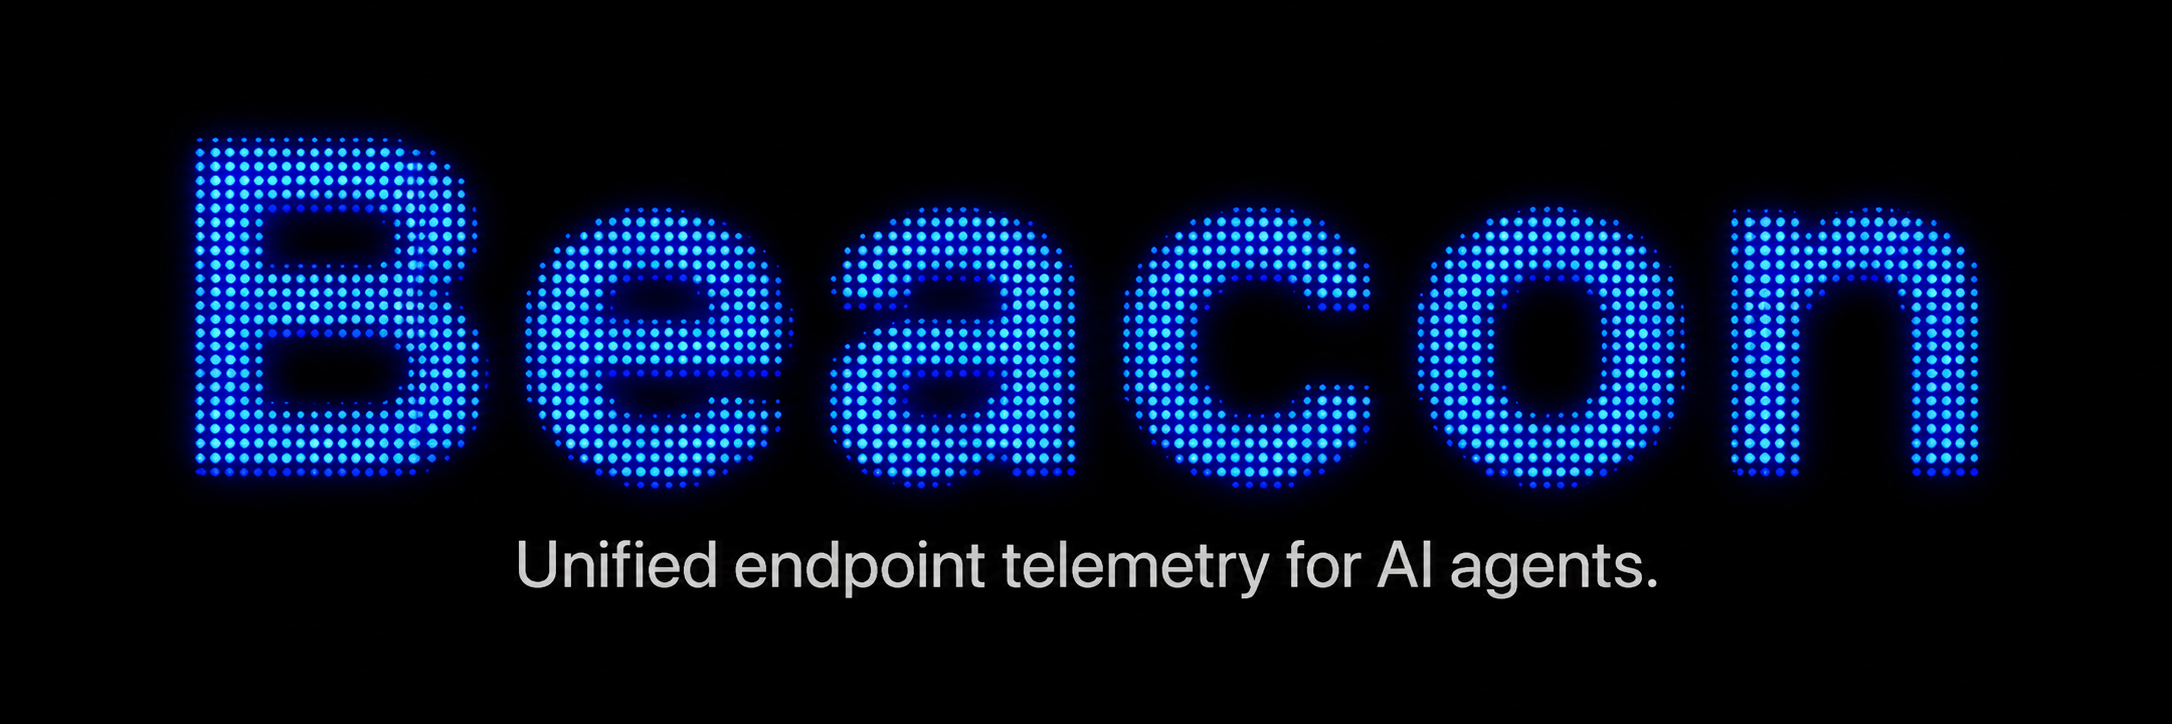
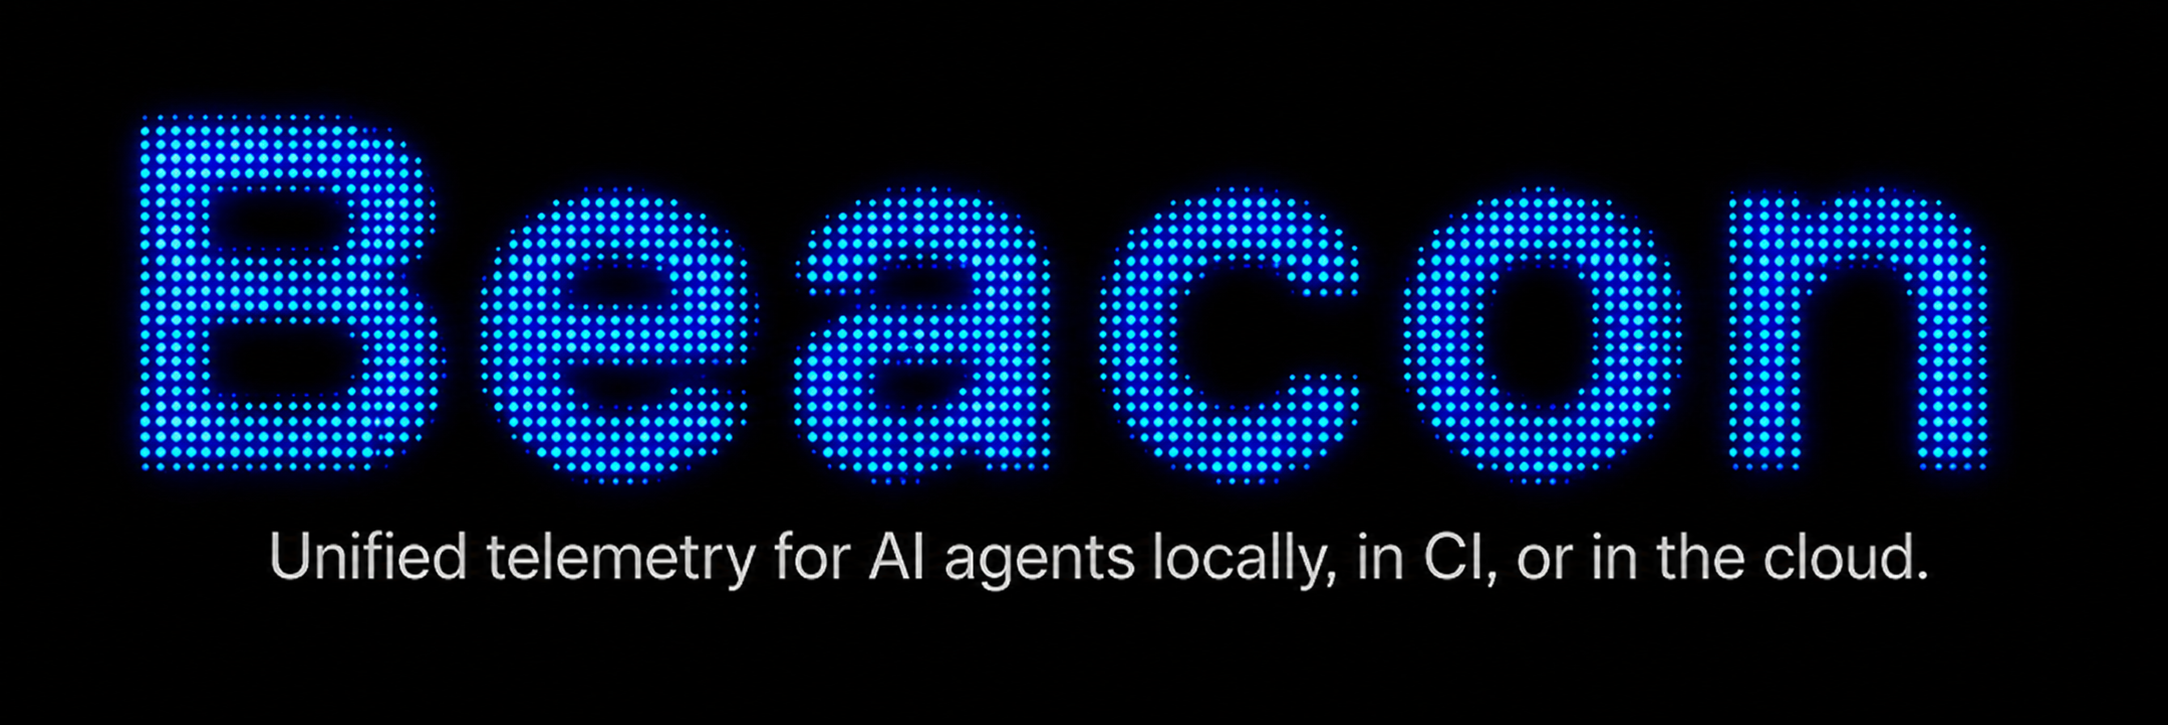
update readme

Changed region(s): [[0.0309, 0.1215, 0.9271, 0.6989], [0.1236, 0.7293, 0.8962, 0.8204]]

diff --git a/README.md b/README.md
@@ -14,7 +14,7 @@
 </p>
 
 <p align="center">
-  <strong>Unified endpoint telemetry for AI agents.</strong>
+  <strong>Unified endpoint telemetry for AI agents, wherever they run.</strong>
 </p>
 
 <p align="center">
@@ -33,16 +33,12 @@
 
 ## What is Agent Beacon
 
-Agent Beacon is [Asymptote's open-source endpoint agent](https://justindsouza.substack.com/p/introducing-beacon-endpoint-telemetry) for security and IT teams that
-need visibility into local AI agent activity.
+Agent Beacon is the world's first [open-source telemetry layer](https://justindsouza.substack.com/p/introducing-beacon-endpoint-telemetry) for AI agents wherever they run: locally, in CI, or in the cloud.
 
-It runs locally, captures all agent activity (e.g. prompts, tool use, file edits, etc.) from
-all the [major local agent harnesses](#agent-runtimes), then
-normalizes that activity into endpoint events your team can inspect and retain
-locally.
+Beacon started with local endpoint telemetry for security and IT teams that need visibility into AI agent activity on employee machines. It now captures supported runtime activity across local agents, CI agents, and cloud agents, then normalizes that activity into events your team can inspect, retain, and forward under your control.
 
 Beacon is built to be easy to deploy for Security and IT teams through
-[MDM deployment](#mdm-deployment) and to
+[MDM deployment](#mdm-deployment), CI workflows, and cloud-agent setup paths, and to
 emit agent harness telemetry logs to
 [all the major enterprise-grade SIEMs](#siem--output-destinations).
 
@@ -50,15 +46,16 @@ Learn more in the [Agent Beacon Documentation](https://docs.asymptotelabs.ai).
 
 ## High-Level Architecture
 
-Beacon keeps collection, processing, and inspection local to the endpoint while
-leaving forwarding under customer control.
+Beacon keeps endpoint collection, processing, and inspection local by default,
+while extending the same normalized event model to CI and cloud-agent telemetry
+paths under customer control.
 
 <p align="center">
   <img src="images/beacon-architecture.png" alt="Beacon endpoint architecture" width="860">
 </p>
 
-- **Agent runtime layer:** Local hooks and OpenTelemetry sources capture
-  supported activity from AI agent harnesses on the endpoint.
+- **Agent runtime layer:** Hooks, OpenTelemetry sources, CI wrappers, and SDKs
+  capture supported activity from AI agent harnesses wherever they run.
 - **Beacon endpoint layer:** Local processing normalizes events, applies
   retention and redaction settings, and writes durable endpoint telemetry.
 - **Output layer:** Teams inspect events in the local dashboard, retain JSONL,
@@ -66,51 +63,58 @@ leaving forwarding under customer control.
 
 ## Supported Surfaces
 
-Beacon captures supported agent harness activity locally and writes normalized
-endpoint events that teams can inspect in place or forward into customer-managed
-security pipelines.
+Beacon captures supported agent harness activity across local endpoints, CI
+jobs, and cloud-agent surfaces, then writes normalized events that teams can
+inspect in place or forward into customer-managed security pipelines.
 
 ### Agent Runtimes
 
-Agent Beacon supports the most popular enterprise coding agent harnesses (e.g.
-Claude Code, Codex, Cursor, etc.) and knowledge worker agent harnesses (e.g.
-Claude Cowork, OpenClaw).
+Agent Beacon supports the most popular enterprise agent harnesses across local,
+CI, and cloud surfaces.
 
-#### Coding Agent Harnesses
+#### Local Agents
 
-| Agent harness | Support path |
-| --- | --- |
-| [Antigravity CLI](https://docs.asymptotelabs.ai/cli/supported-runtimes-antigravity-cli) | Beacon hook adapter |
-| [Claude Code](https://docs.asymptotelabs.ai/cli/supported-runtimes-claude-code) | Local OpenTelemetry configuration, Beacon hook adapter, or Claude Code web cloud hooks with GCS upload |
-| [Codex CLI](https://docs.asymptotelabs.ai/cli/supported-runtimes-codex-cli) | Local OpenTelemetry configuration |
-| [Cursor](https://docs.asymptotelabs.ai/cli/supported-runtimes-cursor) | Beacon hook adapter |
-| [Devin CLI](https://docs.asymptotelabs.ai/cli/supported-runtimes-devin) | Beacon hook adapter |
-| [Devin Desktop](https://docs.asymptotelabs.ai/cli/supported-runtimes-devin-desktop) | Beacon hook adapter via Cascade/Windsurf hooks |
-| [Factory Droid](https://docs.asymptotelabs.ai/cli/supported-runtimes-factory-droid) | Local OpenTelemetry configuration and optional hook adapter |
-| [Gemini CLI](https://docs.asymptotelabs.ai/cli/supported-runtimes-gemini-cli) | Opt-in local OpenTelemetry configuration |
-| [GitHub Copilot CLI](https://docs.asymptotelabs.ai/cli/supported-runtimes-github-copilot-cli) | MDM-managed OpenTelemetry (OTLP HTTP) |
-| [Grok Build](https://docs.asymptotelabs.ai/cli/supported-runtimes-grok-build) | Beacon hook adapter |
-| [OpenCode](https://docs.asymptotelabs.ai/cli/supported-runtimes-opencode) | Beacon hook adapter |
-| [VS Code](https://docs.asymptotelabs.ai/cli/supported-runtimes-vscode) | VS Code Copilot OpenTelemetry and optional Beacon hook adapter |
+##### Coding Agent Harnesses
 
-#### Cloud Agent Harnesses
+| Agent harness | Collection path | Telemetry coverage |
+| --- | --- | --- |
+| [Antigravity CLI](https://docs.asymptotelabs.ai/cli/supported-runtimes-antigravity-cli) | Native hooks | Prompt, pre-tool, post-tool, stop, invocation, command, and file telemetry where Antigravity exposes hook payloads |
+| [Claude Code](https://docs.asymptotelabs.ai/cli/supported-runtimes-claude-code) | Local OTLP export plus optional hooks | Prompt, command, tool, file, lifecycle, subagent, and permission telemetry where emitted through OTLP or hooks |
+| [Codex CLI](https://docs.asymptotelabs.ai/cli/supported-runtimes-codex-cli) | Local OTLP logs | Session, prompt, approval, and tool-result activity from Codex semantic logs |
+| [Cursor](https://docs.asymptotelabs.ai/cli/supported-runtimes-cursor) | Native hooks | Prompt, tool, shell command, MCP-like, approval, and file edit telemetry |
+| [Devin CLI](https://docs.asymptotelabs.ai/cli/supported-runtimes-devin) | Native hooks | Session, prompt, pre-tool, post-tool, permission request, stop, session-end, approval, and file telemetry |
+| [Devin Desktop](https://docs.asymptotelabs.ai/cli/supported-runtimes-devin-desktop) | Cascade/Windsurf hooks | Prompt, command, MCP tool, file read, and file write telemetry where Desktop exposes Cascade hook payloads |
+| [Factory Droid](https://docs.asymptotelabs.ai/cli/supported-runtimes-factory-droid) | OTLP HTTP plus optional hooks | Session, prompt, write/edit/create tool use, stop, session-end, and available OTLP telemetry |
+| [Gemini CLI](https://docs.asymptotelabs.ai/cli/supported-runtimes-gemini-cli) | Opt-in local OTLP | Prompts, tool calls, MCP activity, file operations, and approval-related events emitted through OTLP |
+| [GitHub Copilot CLI](https://docs.asymptotelabs.ai/cli/supported-runtimes-github-copilot-cli) | MDM-managed OTLP HTTP | Prompt, session, tool, and approval-like activity emitted through Copilot CLI spans |
+| [Grok Build](https://docs.asymptotelabs.ai/cli/supported-runtimes-grok-build) | Native hooks | Session, prompt, pre-tool, post-tool, failed tool, stop, session-end, command, and file telemetry |
+| [OpenCode](https://docs.asymptotelabs.ai/cli/supported-runtimes-opencode) | Managed plugin hooks | Chat messages, session events, command execution, permission activity, diffs, and errors |
+| [VS Code](https://docs.asymptotelabs.ai/cli/supported-runtimes-vscode) | Copilot Chat OTel plus optional preview hooks | Copilot session, prompt, model, and tool activity through OTel; optional hooks for extra lifecycle and cross-agent detail |
 
-Beacon can capture Claude Code on the web sessions by installing ephemeral
-project-level hooks inside the cloud sandbox and uploading the per-session
-`runtime.jsonl` snapshot to customer-managed Google Cloud Storage. Use
-`beacon cloud gcs setup` to create a scoped GCS uploader service account and
-print the Claude web environment variables, then use
-`beacon cloud claude-web print-setup --version <tag>` as the Claude environment
-setup script. The setup script writes `.claude/settings.local.json` inside the
-cloud clone only, so generated hook configuration stays out of commits.
+##### Knowledge Worker Agent Harnesses
 
-#### Knowledge Worker Agent Harnesses
+| Agent harness | Collection path | Telemetry coverage |
+| --- | --- | --- |
+| [Claude Cowork](https://docs.asymptotelabs.ai/cli/supported-runtimes-claude-cowork) | Admin-configured OTLP | Prompt, command, tool, and file telemetry when emitted through Claude Cowork OTLP |
+| [Hermes Agent](https://docs.asymptotelabs.ai/cli/supported-runtimes-hermes-agent) | Shell hooks | Prompt, observed tool, command, file, approval request and response, session lifecycle, and subagent stop telemetry |
+| [OpenClaw Gateway](https://docs.asymptotelabs.ai/cli/supported-runtimes-openclaw-gateway) | Gateway-configured OTLP/HTTP | OTLP logs, traces, and metrics from the Gateway diagnostics plugin |
 
-| Agent harness | Support path |
-| --- | --- |
-| [Claude Cowork](https://docs.asymptotelabs.ai/cli/supported-runtimes-claude-cowork) | Admin-configured OpenTelemetry setup |
-| [Hermes Agent](https://docs.asymptotelabs.ai/cli/supported-runtimes-hermes-agent) | Beacon hook adapter via Hermes shell hooks |
-| [OpenClaw Gateway](https://docs.asymptotelabs.ai/cli/supported-runtimes-openclaw-gateway) | Gateway-configured OTLP/HTTP export |
+#### CI Agents
+
+| Harness | Collection path | Telemetry coverage |
+| --- | --- | --- |
+| CI agent telemetry | Temporary local collector through `beacon ci exec` or `beacon ci start` / `beacon ci finish` | Supported agent prompt, tool, command, file, and run context where emitted during the job |
+
+#### Cloud Agents
+
+| Cloud surface | Collection path | Telemetry coverage |
+| --- | --- | --- |
+| Claude Code Cloud Agents | Cloud sandbox hooks with GCS upload | Session, prompt, tool, command, file, and lifecycle telemetry where Claude Code cloud hook payloads expose it |
+| Cursor Cloud Agents | Cloud sandbox hooks with GCS upload | Tool, shell command, file, subagent, and compaction telemetry where Cursor cloud hook payloads expose it |
+| Anthropic | OpenLLMetry instrumentation through `@asymptote/sdk` | Supported Anthropic model call spans, errors, and OpenTelemetry attributes |
+| Claude Agent SDK | Query wrapper through `Observe.wrapClaudeAgentQuery()` | Query root spans with Beacon-compatible prompt attributes |
+| OpenAI | OpenLLMetry instrumentation through `@asymptote/sdk` | Supported OpenAI model call spans, errors, and OpenTelemetry attributes |
+| Vercel AI SDK | Tracer handoff through `experimental_telemetry` | AI SDK model call and tool spans where telemetry is enabled |
 
 ### Output Destinations
 